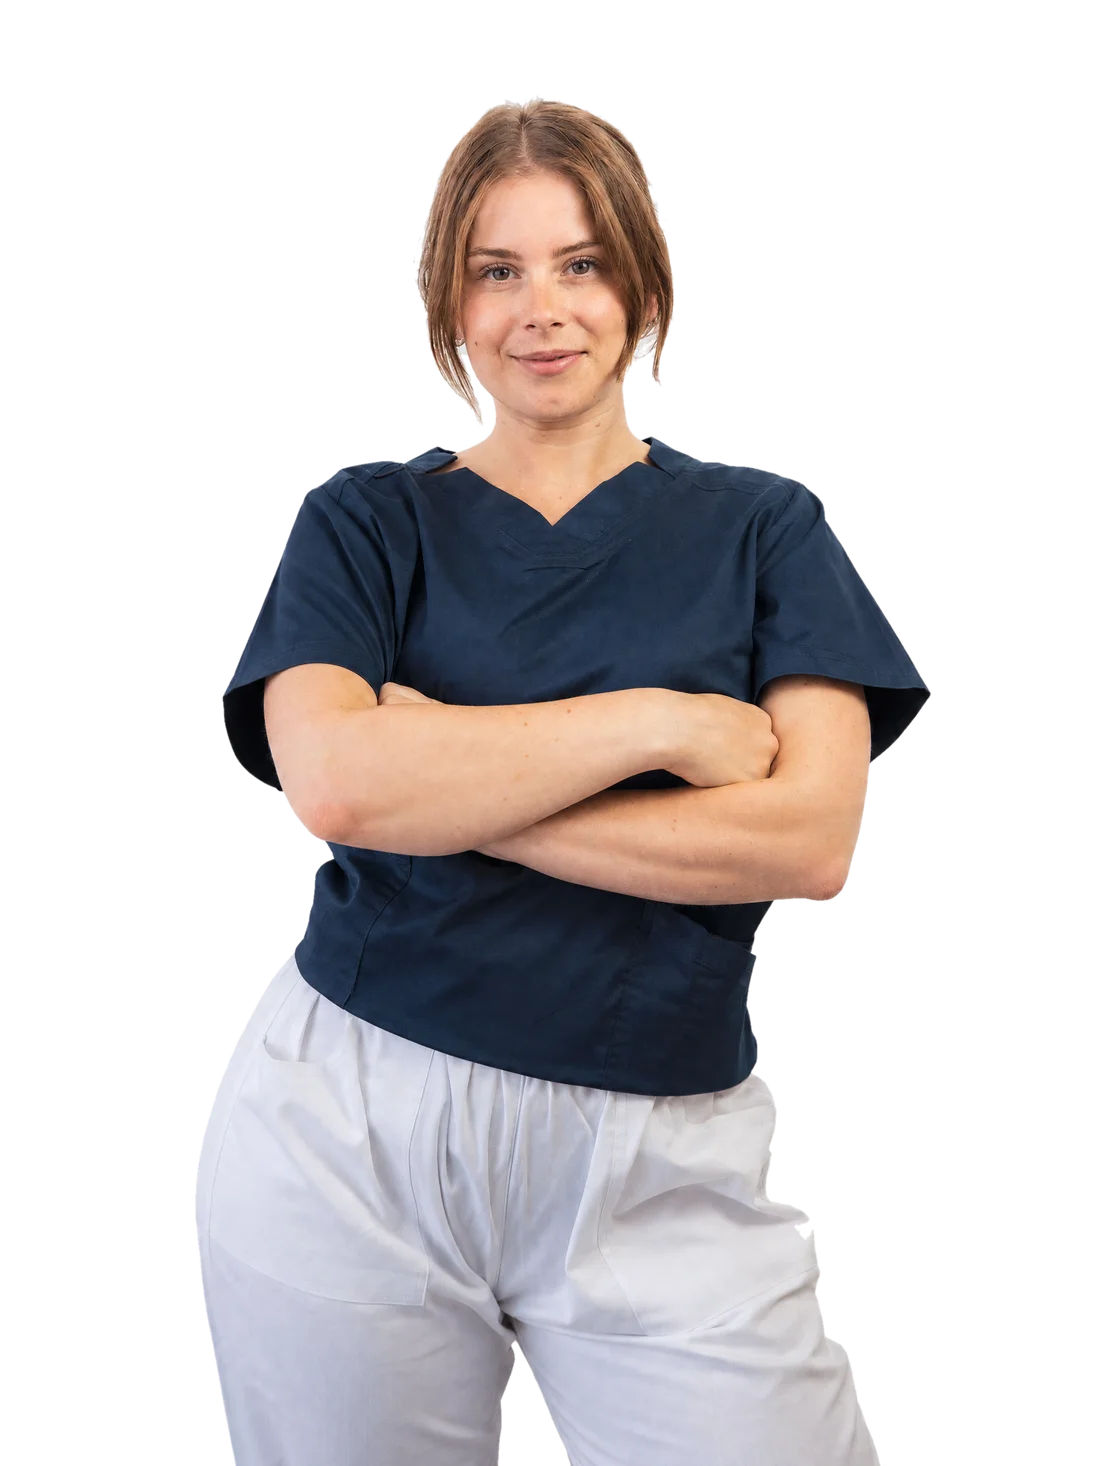
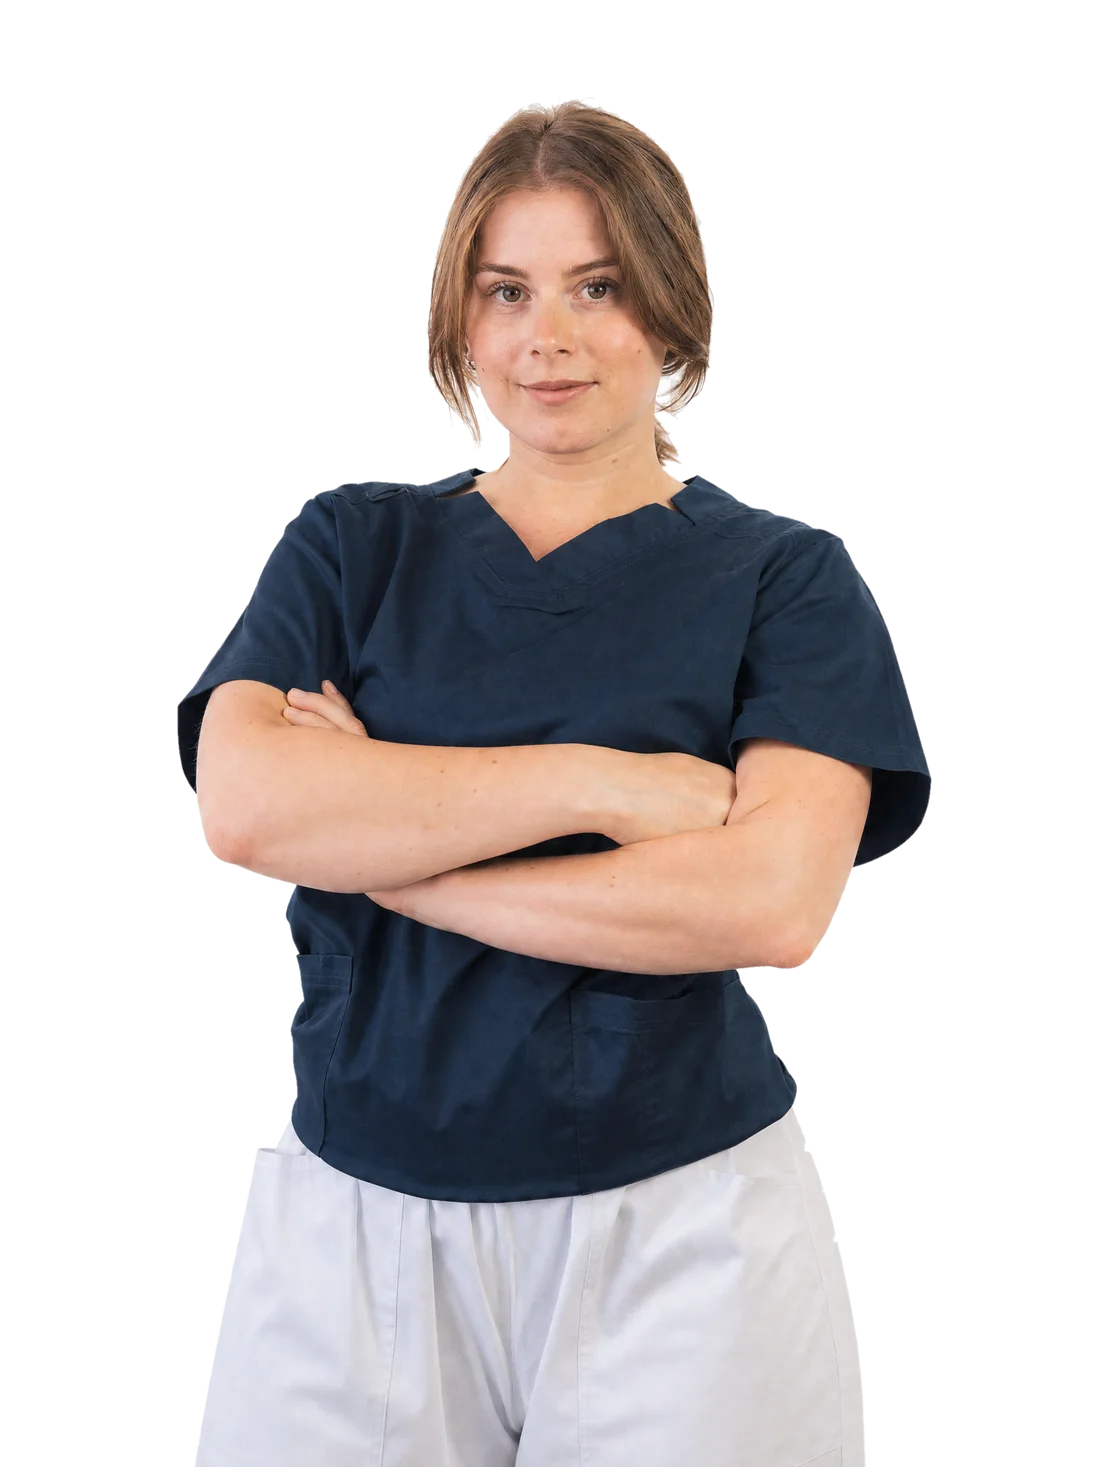
fix: messo a posto foto principale

Changed region(s): [[0.1545, 0.0614, 0.8655, 1.0], [0.7727, 0.399, 0.8036, 0.4297]]

diff --git a/app/page.tsx b/app/page.tsx
@@ -157,16 +157,22 @@ const MOB_FADE: AnimSpec = [
    = 255, e 250 e' quello con un filo di respiro in meno sul fondo.
 
    Da sopra: quel numero decide DOVE la card la taglia, e la formula e' corta —
-   la banda mostra tutte e 1122 le righe del ritaglio, quindi a fine corsa se ne vedono
+   la banda mostra tutte e 1217 le righe del ritaglio, quindi a fine corsa se ne vedono
 
-       righe = 1122 * (1 - SHEET_DY / banda)
+       righe = 1217 * (1 - SHEET_DY / banda)
 
-   contate dalla riga 128 del sorgente. I riferimenti sul suo corpo: mento ~760, attacco
-   spalle 875. Con 250 su una banda di 625 vengono 673 righe, cioe' y=801: meta' collo, che e'
-   l'assetto approvato ("testa e collo dietro la card"). Alzalo e sale sul mento; abbassalo e
-   la coda dell'indice resta sotto la piega. Non guardarlo come px, guardalo con questa
+   contate dalla riga 158 del sorgente. I riferimenti sul suo corpo: mento 859, collo 887,
+   attacco spalle 900. Con 250 su una banda di 625 vengono 730 righe, cioe' y=888: il collo,
+   che e' l'assetto approvato ("testa e collo dietro la card"). Alzalo e sale sul mento;
+   abbassalo e la coda dell'indice resta sotto la piega. Non guardarlo come px, guardalo con questa
    formula — e' il motivo per cui `short:` ha una banda molto piu' bassa (56svh e non 70): li'
    la videata e' 667 e con una banda alta il RAPPORTO dy/banda esplode, tagliandola in faccia.
+
+   ATTENZIONE: 1217 e 158 non sono costanti di questo file — escono da `MOB_BOTTOM` in
+   `scripts/hero-cutout.mjs`. Una foto nuova che la inquadra piu' stretta sposta l'atterraggio
+   senza che qui cambi niente (e' successo: il sorgente del 2026-09 le inquadra la testa il 14%
+   piu' grande, e con il vecchio ritaglio la card le finiva sulla mascella). Se cambi la foto,
+   la manopola da ritoccare e' MOB_BOTTOM di la', non SHEET_DY di qua.
 
    Conseguenza aritmetica da tenere presente: l'altezza FINALE della foto la decide il
    contenuto della card, non l'altezza a riposo. "3/4 a riposo" e' quindi gratis. */

diff --git a/app/site/photos.ts b/app/site/photos.ts
@@ -179,7 +179,7 @@ export const PHOTOS = {
  *
  * ## She stands on WHITE, and the gold moved to the text half
  * The cut-out first shipped on the gold slab and wore a pale halo around the hair. It is
- * not an edge artefact and no matte tuning removes it: the pale pixels are the ~11k the
+ * not an edge artefact and no matte tuning removes it: the pale pixels are the ~7k the
  * flood fill deliberately keeps INSIDE her (trouser and hair highlights), and eroding
  * three times over barely touches the count. What decides whether they read as a halo is
  * the ground — composited on gold the palest of them lands 83 levels ABOVE it, on white 29
@@ -192,7 +192,7 @@ export const PHOTOS = {
  */
 export const HERO_PHOTO = {
   /** Desktop: 3:4, cropped tight top and bottom so she is as large as the slab allows. */
-  desktop: { src: "/foto/hero.webp", width: 1100, height: 1466 },
+  desktop: { src: "/foto/hero.webp", width: 1100, height: 1467 },
   /** Phone: 1:1, a BUST — crown to just under the shoulder line, shoulders running off both
    *  sides. Square because the box crops it in width; see above. */
   mobile: { src: "/foto/hero-mobile.webp", width: 960, height: 960 },

diff --git a/CLAUDE.md b/CLAUDE.md
@@ -86,7 +86,7 @@ The camera originals (15 JPG at 6000x4000, the hero PNG, plus the 4K studio vide
   point of the script. One `crop` line per photo is the only thing to touch when a
   framing is wrong.
 - `public/foto/hero.webp` + `hero-mobile.webp` — the hero portrait, a **cut-out with a
-  real alpha channel**, 1100x1467 (3:4) and 800x1000 (4:5). Built by
+  real alpha channel**, 1100x1467 (3:4) and 960x960 (square). Built by
   `scripts/hero-cutout.mjs` (sharp) from `FOTO_ORIGINALI/HERO_PHOTO.png`.
 
   **The source only pretends to have transparency.** It looks like a
@@ -109,7 +109,7 @@ The camera originals (15 JPG at 6000x4000, the hero PNG, plus the 4K studio vide
 
   **It is a flood fill from the border, not a colour key**, and that is the second half
   of the safety: a pixel counts as background only if it is pale, neutral *and reachable
-  from the edge without crossing her*. That keeps ~11k pale pixels **inside** the
+  from the edge without crossing her*. That keeps ~7k pale pixels **inside** the
   trousers, which a global key would have punched into holes. The count is printed on
   every run, because it is precisely the number that would go wrong silently. `ERODE`
   then drops the boundary pixels (part her, part plate — they would ship as a pale halo)
@@ -124,7 +124,7 @@ The camera originals (15 JPG at 6000x4000, the hero PNG, plus the 4K studio vide
   what makes her big — rendered height is `(subject_height / crop_height) * box_height` —
   so trimming rows buys size while side margin costs nothing (it is transparent, and
   `drop-shadow` follows the silhouette, not the box). Cutting the phone frame from 1695
-  rows to 1122 is what takes her head from 84px to ~290px on a 390x844 phone.
+  rows to 1217 is what takes her head from 84px to ~303px on a 390x844 phone.
 
   **The phone crop is SQUARE, and that is load-bearing, not a taste.** It is no longer laid
   out at its own ratio: the phone box has a fixed height (a 74svh full-bleed band) and the
@@ -146,9 +146,9 @@ The camera originals (15 JPG at 6000x4000, the hero PNG, plus the 4K studio vide
 
   **She stands on WHITE, and that is why the gold moved to the text half.** The cut-out
   first shipped on the gold slab and wore a pale halo around the hair. The obvious reading
-  is "erode harder"; measured, that is wrong. Those pale pixels are the ~11k the flood fill
+  is "erode harder"; measured, that is wrong. Those pale pixels are the ~7k the flood fill
   deliberately KEEPS inside her, and the count barely moves between 0 and 3 erosion passes
-  (10923 → 10824) because they are nowhere near the boundary — you cannot trim them without
+  (6900 → 6779) because they are nowhere near the boundary — you cannot trim them without
   eating the subject. What decides whether they read as a halo is the ground: composited on
   gold the palest of them lands **83 levels above** it, on white **29 below**, i.e.
   invisible. So it is not a threshold to tune, it is a ground to change. `ERODE` is 1 and
@@ -451,10 +451,13 @@ Two is the limit. Don't take these as licence for a third.
     nothing. Also `max-lg:justify-start` — `justify-center` would split the overflow between
     top and bottom, i.e. shear her crown.
   - **`SHEET_DY` is the one knob, and it is read with a formula, not by eye.** The band shows
-    all 1122 rows of the crop, so at the end of the rise `rows = 1122 * (1 - SHEET_DY/band)`
-    of her are still visible, counted from source row 128. Landmarks: chin ~760, shoulder
-    join 875. Raise it and the card climbs onto her chin; lower it and the index stays under
-    the fold. It is also why `short:` uses a much lower band (56svh, not 70): on a 667px
+    all 1217 rows of the crop, so at the end of the rise `rows = 1217 * (1 - SHEET_DY/band)`
+    of her are still visible, counted from source row 158. Landmarks: chin 859, neck 887,
+    shoulder join 900. Raise it and the card climbs onto her chin; lower it and the index
+    stays under the fold. **The other half of this formula is `MOB_BOTTOM`** in
+    `hero-cutout.mjs`, which sets both the crop height and the source row it starts from: a
+    new hero photo that frames her differently moves the landing without either constant
+    changing, so re-derive it there whenever the source is replaced. It is also why `short:` uses a much lower band (56svh, not 70): on a 667px
     screen a tall band makes that ratio explode and the card cuts her across the face.
   - **The final photo height is decided by the card's content, not by the resting height** —
     `viewport − padding − content` either way. That is why "3/4 at rest" was free, and why
